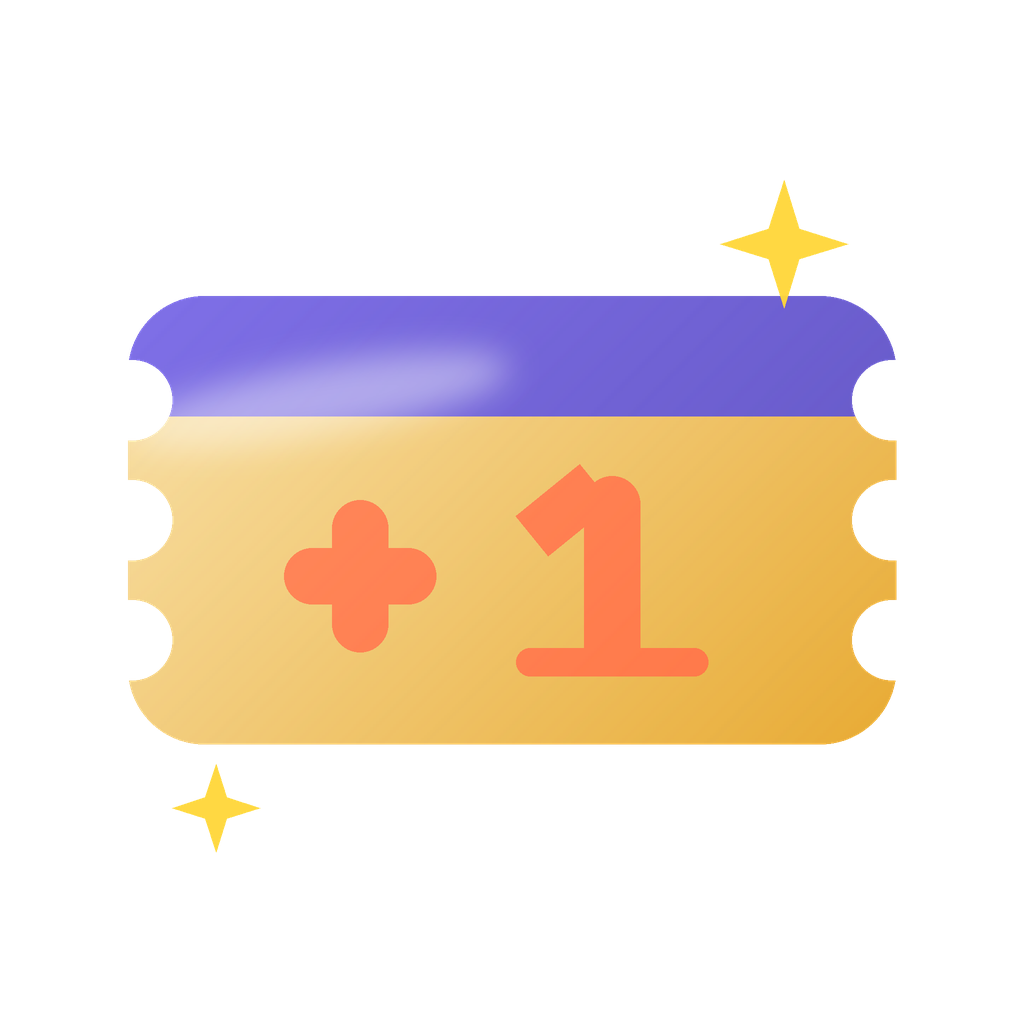
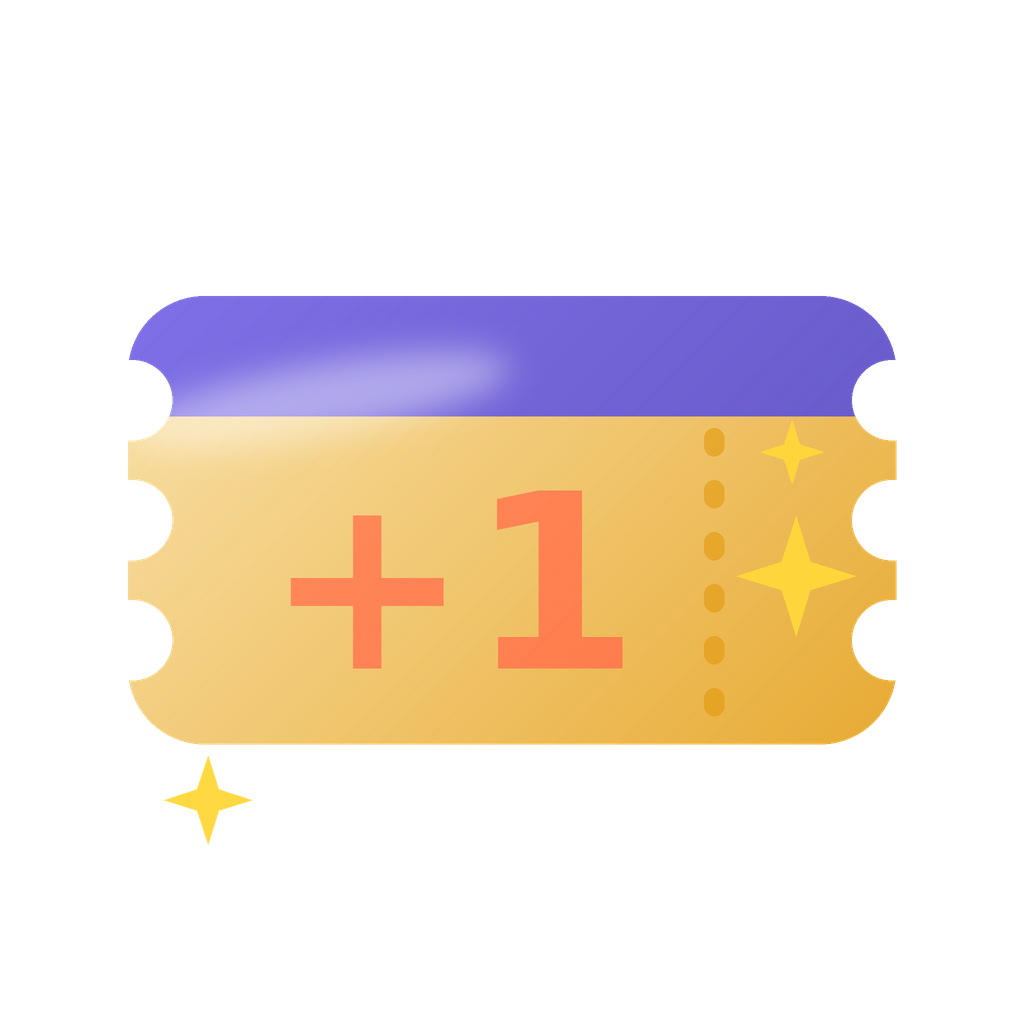
Rework five shop items
Freeze becomes a snowflake crystal instead of a flame in ice. The arrow
is rebuilt in the arrow's own axes so head, shaft and fletching line up
and it reads as struck into the bullseye. The bulb gets a recognisable
zigzag filament and a threaded screw base. '+1' is set in a real
typeface rather than assembled from bars. The self-hug arms now wrap
across the widest part of the heart instead of cradling it from below.

diff --git a/items.py b/items.py
@@ -123,6 +123,13 @@ def gloss(img, obj, spots, alpha=96, blur=10.0):
     img.alpha_composite(_tinted(g, (255, 255, 255), alpha))
 
 
+def _font(size_logical):
+    from PIL import ImageFont
+    return ImageFont.truetype(
+        "/usr/share/fonts/truetype/dejavu/DejaVuSans-Bold.ttf",
+        int(s(size_logical)))
+
+
 def spark(d, cx, cy, r, v=255):
     k = r * 0.24
     d.polygon([s(cx), s(cy - r), s(cx + k), s(cy - k), s(cx + r), s(cy),
@@ -254,33 +261,56 @@ def item_crown():
 # --- секретные техники -------------------------------------------------------
 
 
-def item_selfhug():
-    """«Самообъятие»: сердце, которое обнимают."""
-    img = new_img()
-    heart, hd = mask()
+def _heart_mask(cx, cy, scale, n=140):
+    m, d = mask()
     pts = []
-    for i in range(140):
-        t = i * 2 * math.pi / 140
+    for i in range(n):
+        t = i * 2 * math.pi / n
         x = 16 * math.sin(t) ** 3
         y = (13 * math.cos(t) - 5 * math.cos(2 * t)
              - 2 * math.cos(3 * t) - math.cos(4 * t))
-        pts += [s(C + x * 9.6), s(250 - y * 9.6)]
-    hd.polygon(pts, fill=255)
+        pts += [s(cx + x * scale), s(cy - y * scale)]
+    d.polygon(pts, fill=255)
+    return m
+
+
+def item_selfhug():
+    """«Самообъятие»: руки скрещены на груди поверх сердца.
+
+    Сердце не «держат снизу» — руки идут снизу-снаружи к противоположному
+    плечу и перекрещиваются, как в настоящем самообъятии."""
+    img = new_img()
+    heart = _heart_mask(C, 232, 10.4)
     shade(img, heart, (255, 150, 168), RED_DK)
+    gloss(img, heart, [(194, 182, 50, 26, 32)], alpha=125, blur=7)
 
-    arms, ad = mask()
-    ad.line(sbox([70, 214, 74, 322, 176, 400, C - 12, 420]), fill=255,
-            width=int(s(50)), joint="curve")
-    ad.line(sbox([442, 214, 438, 322, 336, 400, C + 12, 420]), fill=255,
-            width=int(s(50)), joint="curve")
-    for x, y in ((70, 214), (442, 214)):
-        ad.ellipse(sbox([x - 25, y - 25, x + 25, y + 25]), fill=255)
-    for x in (C - 12, C + 12):
-        ad.ellipse(sbox([x - 25, 395, x + 25, 445]), fill=255)
-    shade(img, arms, GOLD, GOLD_DK)
+    def arm(pts, w=46.0):
+        """Рука обвивает сердце и заканчивается кистью.
 
-    gloss(img, heart, [(202, 200, 52, 26, 32)], alpha=125, blur=7)
-    gloss(img, arms, [(78, 250, 20, 44, 8)], alpha=100, blur=6)
+        Прямые длинные диагонали здесь не годятся: они выходят далеко за
+        силуэт и читаются как перечёркивание, а не объятие."""
+        m, d = mask()
+        d.line(sbox([v for p in pts for v in p]), fill=255,
+               width=int(s(w)), joint="curve")
+        d.ellipse(sbox([pts[0][0] - w / 2, pts[0][1] - w / 2,
+                        pts[0][0] + w / 2, pts[0][1] + w / 2]), fill=255)
+        hx, hy, hr = pts[-1][0], pts[-1][1], w * 0.62
+        d.ellipse(sbox([hx - hr, hy - hr, hx + hr, hy + hr]), fill=255)
+        return m
+
+    # Руки лежат поперёк самой широкой части сердца, а не под его нижним
+    # остриём: внизу они читаются как «держат снизу», а нужно объятие.
+    back = arm([(438, 206), (398, 268), (330, 300), (250, 292)])
+    front = arm([(74, 226), (114, 296), (192, 336), (282, 330)])
+    shade(img, back, GOLD_DK, (184, 118, 4))
+
+    sh = front.filter(ImageFilter.MaxFilter(9)).filter(
+        ImageFilter.GaussianBlur(s(7)))
+    sh = Image.composite(sh, Image.new("L", (N, N), 0), back)
+    img.alpha_composite(_tinted(sh, (124, 78, 2), 135))
+
+    shade(img, front, GOLD, GOLD_DK)
+    gloss(img, front, [(126, 296, 14, 34, 10)], alpha=105, blur=6)
     return img
 
 
@@ -343,21 +373,44 @@ def item_target():
         d.ellipse(sbox([C - r, C - r, C + r, C + r]), fill=255)
         shade(img, m, c0, c1)
 
+    # Стрела строится в осях самой стрелы: t — вдоль древка от наконечника
+    # к хвосту, off — поперёк. Иначе наконечник, древко и оперение не
+    # сходятся в одну линию и стрела выглядит приклеенной сверху.
+    tip = (C - 4, C - 4)
+    back = (0.784, -0.620)                     # от наконечника к хвосту
+    perp = (-back[1], back[0])
+
+    def P(t, off):
+        return (tip[0] + back[0] * t + perp[0] * off,
+                tip[1] + back[1] * t + perp[1] * off)
+
+    hole, hd = mask()                          # входное отверстие в мишени
+    hd.ellipse(sbox([C - 30, C - 30, C + 30, C + 30]), fill=255)
+    hole = hole.filter(ImageFilter.GaussianBlur(s(9)))
+    img.alpha_composite(_tinted(hole, (120, 28, 44), 120))
+
     shaft, sd = mask()
-    sd.line(sbox([C + 14, C - 14, 452, 92]), fill=255, width=int(s(22)))
-    shade(img, shaft, (216, 224, 246), METAL_DK)
-    fl, fd = mask()                            # оперение
-    for off in (0, 30):
-        fd.polygon([*sbox([402 + off, 142 - off]), *sbox([452 + off, 92 - off]),
-                    *sbox([452 + off, 148 - off])], fill=255)
-    shade(img, fl, (255, 170, 132), FLAME_DK)
+    a, b = P(46, 0), P(214, 0)
+    sd.line(sbox([*a, *b]), fill=255, width=int(s(19)))
+    shade(img, shaft, (228, 234, 250), METAL_DK)
 
-    head, hd = mask()
-    hd.polygon([*sbox([C - 34, C + 34]), *sbox([C + 34, C - 34]),
-                *sbox([C + 14, C - 54]), *sbox([C - 54, C + 14])], fill=255)
-    shade(img, head, GOLD, GOLD_DK)
+    fl, fd = mask()                            # оперение у хвоста
+    for sgn in (1, -1):
+        fd.polygon([*sbox([*P(148, 9 * sgn)]), *sbox([*P(222, 9 * sgn)]),
+                    *sbox([*P(206, 58 * sgn)])], fill=255)
+    shade(img, fl, (255, 176, 138), FLAME_DK)
+    nock, nd = mask()
+    nd.ellipse(sbox([P(220, 0)[0] - 13, P(220, 0)[1] - 13,
+                     P(220, 0)[0] + 13, P(220, 0)[1] + 13]), fill=255)
+    shade(img, nock, METAL, METAL_DK)
 
-    gloss(img, head, [(C - 22, C - 16, 26, 12, 45)], alpha=130, blur=5)
+    head, hhd = mask()                         # наконечник
+    hhd.polygon([*sbox([*P(0, 0)]), *sbox([*P(62, 25)]), *sbox([*P(50, 0)]),
+                 *sbox([*P(62, -25)])], fill=255)
+    shade(img, head, (255, 238, 168), GOLD_DK)
+
+    gloss(img, head, [(*P(30, -9), 22, 9, 38)], alpha=140, blur=4)
+    gloss(img, shaft, [(*P(120, -5), 60, 5, -38)], alpha=120, blur=4)
     return img
 
 
@@ -365,52 +418,50 @@ def item_target():
 
 
 def item_freeze():
-    """Заморозка серии: огонёк серии внутри ледяного кристалла.
+    """Заморозка серии: объёмная снежинка-кристалл.
 
-    Уют и защита, а не холод: пламя внутри живое и тёплое, лёд —
-    прозрачный светлый, без синевы «морозилки»."""
+    Уют и защита, а не холод: светлая, почти белая, с тёплым сиреневым
+    отливом в тени — не синева «морозилки»."""
     img = new_img()
-    flame, fd = mask()
-    fd.polygon([*sbox([C + 14, 148]), *sbox([C + 60, 240]),
-                *sbox([C + 78, 308]), *sbox([C + 52, 380]),
-                *sbox([C - 6, 410]), *sbox([C - 64, 372]),
-                *sbox([C - 70, 296]), *sbox([C - 28, 232])], fill=255)
-    shade(img, flame, (255, 196, 96), FLAME_DK)
-    core, kd = mask()
-    kd.polygon([*sbox([C + 4, 236]), *sbox([C + 34, 306]), *sbox([C + 20, 366]),
-                *sbox([C - 22, 372]), *sbox([C - 38, 314]),
-                *sbox([C - 8, 268])], fill=255)
-    flat(img, core, (255, 240, 176), 210)
+    arm, w = 194.0, 30.0
+    flake, d = mask()
+    for k in range(6):
+        a = math.radians(k * 60)
+        ux, uy = math.cos(a), math.sin(a)
+        d.line(sbox([C, C, C + ux * arm, C + uy * arm]), fill=255,
+               width=int(s(w)))
+        tx, ty = C + ux * arm, C + uy * arm     # ромбовидный наконечник
+        px, py = -uy, ux
+        d.polygon([*sbox([tx + ux * 30, ty + uy * 30]),
+                   *sbox([tx + px * 26, ty + py * 26]),
+                   *sbox([tx - ux * 26, ty - uy * 26]),
+                   *sbox([tx - px * 26, ty - py * 26])], fill=255)
+        for frac, blen, bw in ((0.44, 76.0, 26.0), (0.72, 56.0, 22.0)):
+            bx, by = C + ux * arm * frac, C + uy * arm * frac
+            for side in (+46, -46):
+                t = math.radians(k * 60 + side)
+                ex, ey = bx + math.cos(t) * blen, by + math.sin(t) * blen
+                d.line(sbox([bx, by, ex, ey]), fill=255, width=int(s(bw)))
+                d.ellipse(sbox([ex - bw / 2, ey - bw / 2,
+                                ex + bw / 2, ey + bw / 2]), fill=255)
 
-    crystal, cd = mask()
-    cd.polygon([*sbox([C, 66]), *sbox([428, 200]), *sbox([394, 402]),
-                *sbox([C, 462]), *sbox([118, 402]), *sbox([84, 200])],
-               fill=255)
-    # лёд полупрозрачный — сквозь него должен читаться огонёк серии
-    ice = new_img()
-    shade(ice, crystal, (236, 250, 255), ICE_DK)
-    ice.putalpha(Image.eval(ice.getchannel("A"), lambda a: a * 42 // 100))
-    img.alpha_composite(ice)
+    hexes = [(C + 66 * math.cos(math.radians(k * 60 + 30)),
+              C + 66 * math.sin(math.radians(k * 60 + 30))) for k in range(6)]
+    d.polygon([v for p in hexes for v in sbox(list(p))], fill=255)
+    shade(img, flake, (255, 255, 255), ICE_DK)
 
-    warm = new_img()                            # лёд обесцвечивает пламя —
-    shade(warm, flame, (255, 190, 96), FLAME_DK)   # возвращаем ему тепло
-    warm.putalpha(Image.eval(warm.getchannel("A"), lambda a: a * 40 // 100))
-    img.alpha_composite(warm)
-
-    edge, ed = mask()                           # рёбра кристалла
-    ed.line(sbox([C, 66, 428, 200, 394, 402, C, 462, 118, 402, 84, 200, C, 66]),
-            fill=255, width=int(s(16)), joint="curve")
-    ed.line(sbox([C, 66, C, 462]), fill=255, width=int(s(8)))
-    ed.line(sbox([84, 200, 428, 200]), fill=255, width=int(s(8)))
-    edge = Image.composite(edge, Image.new("L", (N, N), 0), crystal)
-    shade(img, edge, (255, 255, 255), ICE)
+    core, cd = mask()                           # светлая сердцевина
+    small = [(C + 40 * math.cos(math.radians(k * 60 + 30)),
+              C + 40 * math.sin(math.radians(k * 60 + 30))) for k in range(6)]
+    cd.polygon([v for p in small for v in sbox(list(p))], fill=255)
+    shade(img, core, (255, 255, 255), (206, 230, 252))
 
     st, sd = mask()
-    spark(sd, 132, 132, 30)
-    spark(sd, 410, 124, 22)
-    spark(sd, 402, 440, 20)
-    flat(img, st, (255, 255, 255), 235)
-    gloss(img, crystal, [(178, 168, 76, 26, 40)], alpha=120, blur=8)
+    spark(sd, 96, 116, 28)
+    spark(sd, 420, 140, 20)
+    spark(sd, 404, 416, 24)
+    flat(img, st, (226, 236, 255), 240)
+    gloss(img, flake, [(178, 176, 70, 24, 42)], alpha=125, blur=8)
     return img
 
 
@@ -430,17 +481,19 @@ def item_plus():
     band = Image.composite(band, Image.new("L", (N, N), 0), ticket)
     shade(img, band, VIOLET, VIOLET_DK)
 
-    glyph, gd = mask()
-    gd.rounded_rectangle(sbox([166, 250, 194, 326]), radius=s(14), fill=255)
-    gd.rounded_rectangle(sbox([142, 274, 218, 302]), radius=s(14), fill=255)
-    gd.rounded_rectangle(sbox([292, 238, 320, 338]), radius=s(14), fill=255)
-    gd.line(sbox([266, 268, 298, 242]), fill=255, width=int(s(26)))
-    gd.rounded_rectangle(sbox([258, 324, 354, 338]), radius=s(7), fill=255)
-    shade(img, glyph, (255, 150, 108), FLAME_DK)
+    perf, pd = mask()                           # линия отрыва
+    for y in range(214, 366, 26):
+        pd.rounded_rectangle(sbox([352, y, 362, y + 14]), radius=s(5), fill=255)
+    flat(img, perf, GOLD_DK, 150)
+
+    glyph, gd = mask()                          # «+1» шрифтом, а не палками
+    gd.text((s(226), s(292)), "+1", font=_font(122), fill=255, anchor="mm")
+    shade(img, glyph, (255, 154, 110), FLAME_DK)
 
     st, sd = mask()
-    spark(sd, 392, 122, 32)
-    spark(sd, 108, 404, 22)
+    spark(sd, 398, 288, 30)
+    spark(sd, 396, 226, 16)
+    spark(sd, 104, 400, 22)
     flat(img, st, GOLD, 245)
     gloss(img, ticket, [(160, 200, 96, 18, 10)], alpha=110, blur=8)
     return img
@@ -450,32 +503,42 @@ def item_hint():
     """Подсказка в уроке: лампочка с искоркой."""
     img = new_img()
     glass, gd = mask()
-    gd.ellipse(sbox([C - 118, 92, C + 118, 328]), fill=255)
-    gd.polygon([*sbox([C - 62, 288]), *sbox([C + 62, 288]),
-                *sbox([C + 48, 358]), *sbox([C - 48, 358])], fill=255)
-    shade(img, glass, (255, 250, 206), GOLD)
+    gd.ellipse(sbox([C - 116, 84, C + 116, 316]), fill=255)
+    gd.polygon([*sbox([C - 68, 258]), *sbox([C + 68, 258]),
+                *sbox([C + 46, 344]), *sbox([C - 46, 344])], fill=255)
+    shade(img, glass, (255, 252, 214), GOLD)
 
+    # нить накала: две ножки и зигзаг между ними — узнаваемее,
+    # чем прежняя дуга с перекладиной, которая читалась как значок
     fil, fdw = mask()
-    fdw.arc(sbox([C - 40, 156, C + 40, 228]), 200, 340, fill=255,
-            width=int(s(14)))
-    fdw.line(sbox([C, 200, C, 268]), fill=255, width=int(s(14)))
-    fdw.line(sbox([C - 34, 268, C + 34, 268]), fill=255, width=int(s(14)))
-    shade(img, fil, GOLD_DK, (186, 122, 6))
+    fdw.line(sbox([C - 30, 268, C - 30, 214]), fill=255, width=int(s(11)))
+    fdw.line(sbox([C + 30, 268, C + 30, 214]), fill=255, width=int(s(11)))
+    fdw.line(sbox([C - 30, 214, C - 14, 176, C, 214, C + 14, 176, C + 30, 214]),
+             fill=255, width=int(s(11)), joint="curve")
+    shade(img, fil, GOLD_DK, (182, 118, 4))
 
-    cap, cd = mask()
-    cd.rounded_rectangle(sbox([C - 52, 352, C + 52, 400]), radius=s(18),
-                         fill=255)
-    cd.rounded_rectangle(sbox([C - 40, 410, C + 40, 452]), radius=s(19),
-                         fill=255)
+    cap, cd = mask()                            # цоколь с резьбой
+    cd.polygon([*sbox([C - 48, 340]), *sbox([C + 48, 340]),
+                *sbox([C + 42, 420]), *sbox([C - 42, 420])], fill=255)
     shade(img, cap, METAL, METAL_DK)
+    ridge, rd = mask()
+    for y in (360, 386):
+        rd.rounded_rectangle(sbox([C - 47, y, C + 47, y + 9]), radius=s(4),
+                             fill=255)
+    ridge = Image.composite(ridge, Image.new("L", (N, N), 0), cap)
+    flat(img, ridge, METAL_DK, 190)
+    tipm, td = mask()
+    td.rounded_rectangle(sbox([C - 26, 420, C + 26, 452]), radius=s(14),
+                         fill=255)
+    shade(img, tipm, METAL_DK, INK)
 
     st, sd = mask()
-    spark(sd, 96, 148, 32)
-    spark(sd, 424, 186, 24)
-    spark(sd, 402, 82, 18)
+    spark(sd, 92, 140, 30)
+    spark(sd, 428, 178, 24)
+    spark(sd, 398, 76, 17)
     flat(img, st, (255, 236, 150), 245)
-    gloss(img, glass, [(C - 56, 152, 40, 22, 38)], alpha=150, blur=6)
-    gloss(img, cap, [(C - 40, 366, 16, 8, 20)], alpha=90, blur=4)
+    gloss(img, glass, [(C - 54, 146, 38, 21, 38)], alpha=155, blur=6)
+    gloss(img, cap, [(C - 36, 356, 12, 26, 4)], alpha=90, blur=4)
     return img
 
 
